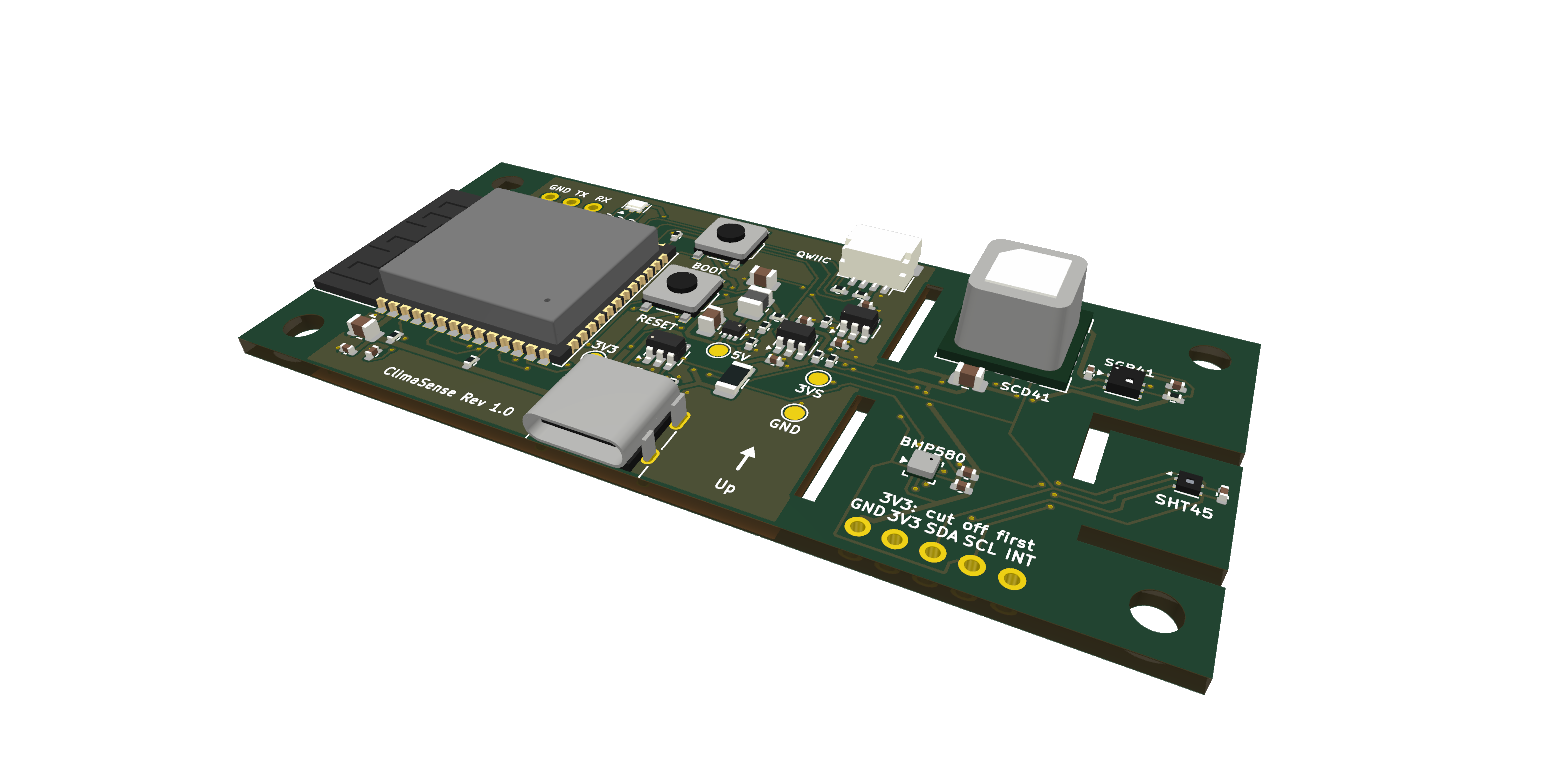
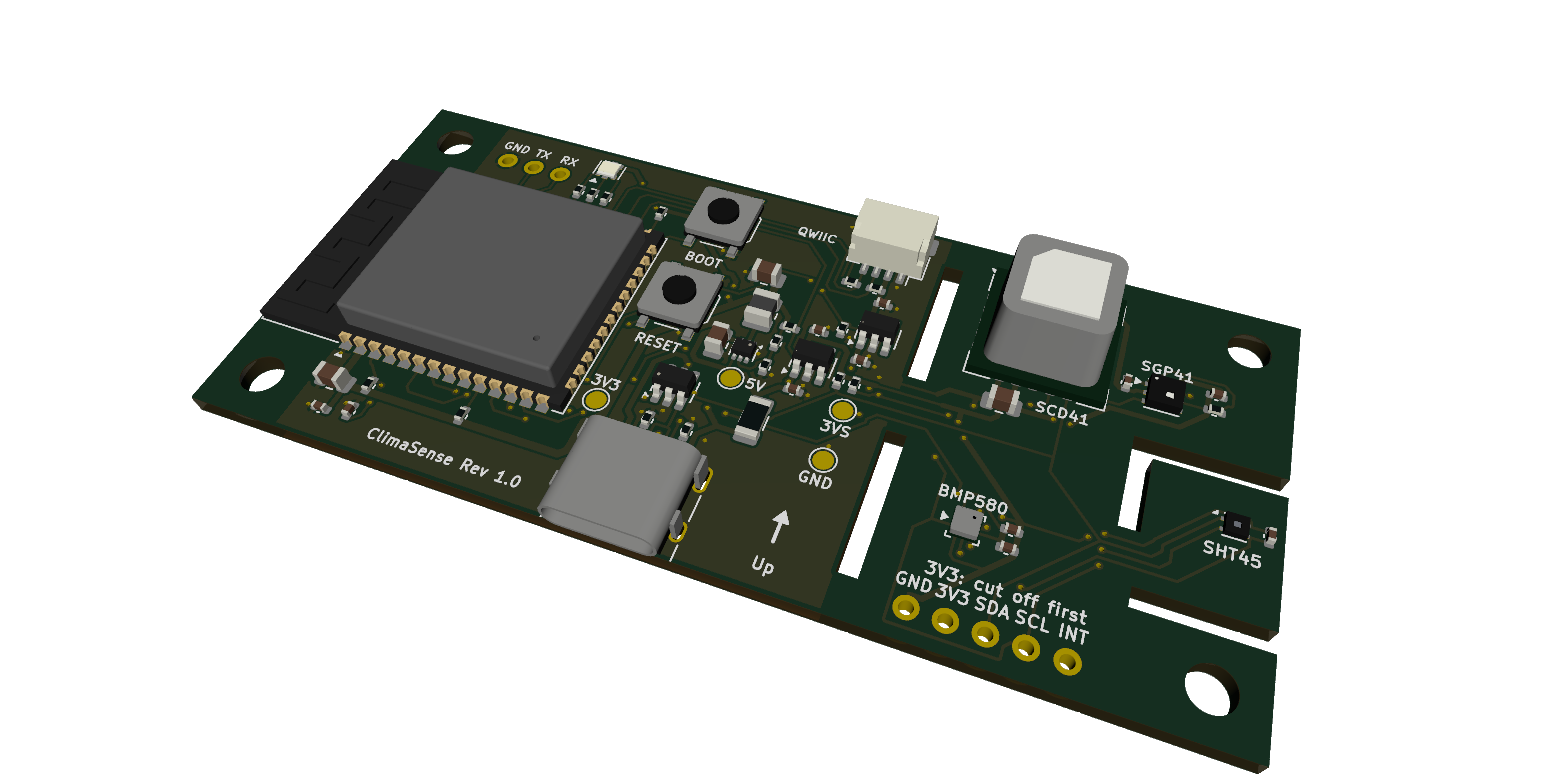
README picture: flatter viewing angle, no glare on the board
The angled 3D view shows the board from a flatter angle, so more of it
is visible. It is lit from the camera only: KiCad's default side lights
put bright patches on the solder mask. The top-down view keeps the
default lights, because a camera light washes the board out there.

Changed region(s): [[0.125, 0.1224, 0.8438, 1.0]]

diff --git a/hardware/tools/gen_images.py b/hardware/tools/gen_images.py
@@ -52,7 +52,11 @@ def main():
     if r.returncode != 0:
         raise SystemExit("gen_models.py failed - no pictures written.")
     OUT.mkdir(parents=True, exist_ok=True)
-    render("board-angle.png", 1600, 800, "--perspective", "--rotate", "-50,0,-25", "--zoom", "1.2", "--pan", "-0.5,0.6,0")
+    # The angled view is lit from the camera only: KiCad's side lights, on by default, put bright
+    # patches of glare on the solder mask there. Seen straight from above it is the other way
+    # round (a camera light washes the whole board out), so that view keeps the default lights.
+    render("board-angle.png", 1600, 800, "--perspective", "--rotate", "-35,0,-20", "--zoom", "1.3", "--pan", "-0.3,0.3,0",
+           "--light-side", "0", "--light-camera", "1")
     render("board-top.png", 1600, 760, "--side", "top", "--zoom", "1.8")
     copper("copper-top.svg", "F.Cu")
     copper("copper-bottom.svg", "B.Cu")
